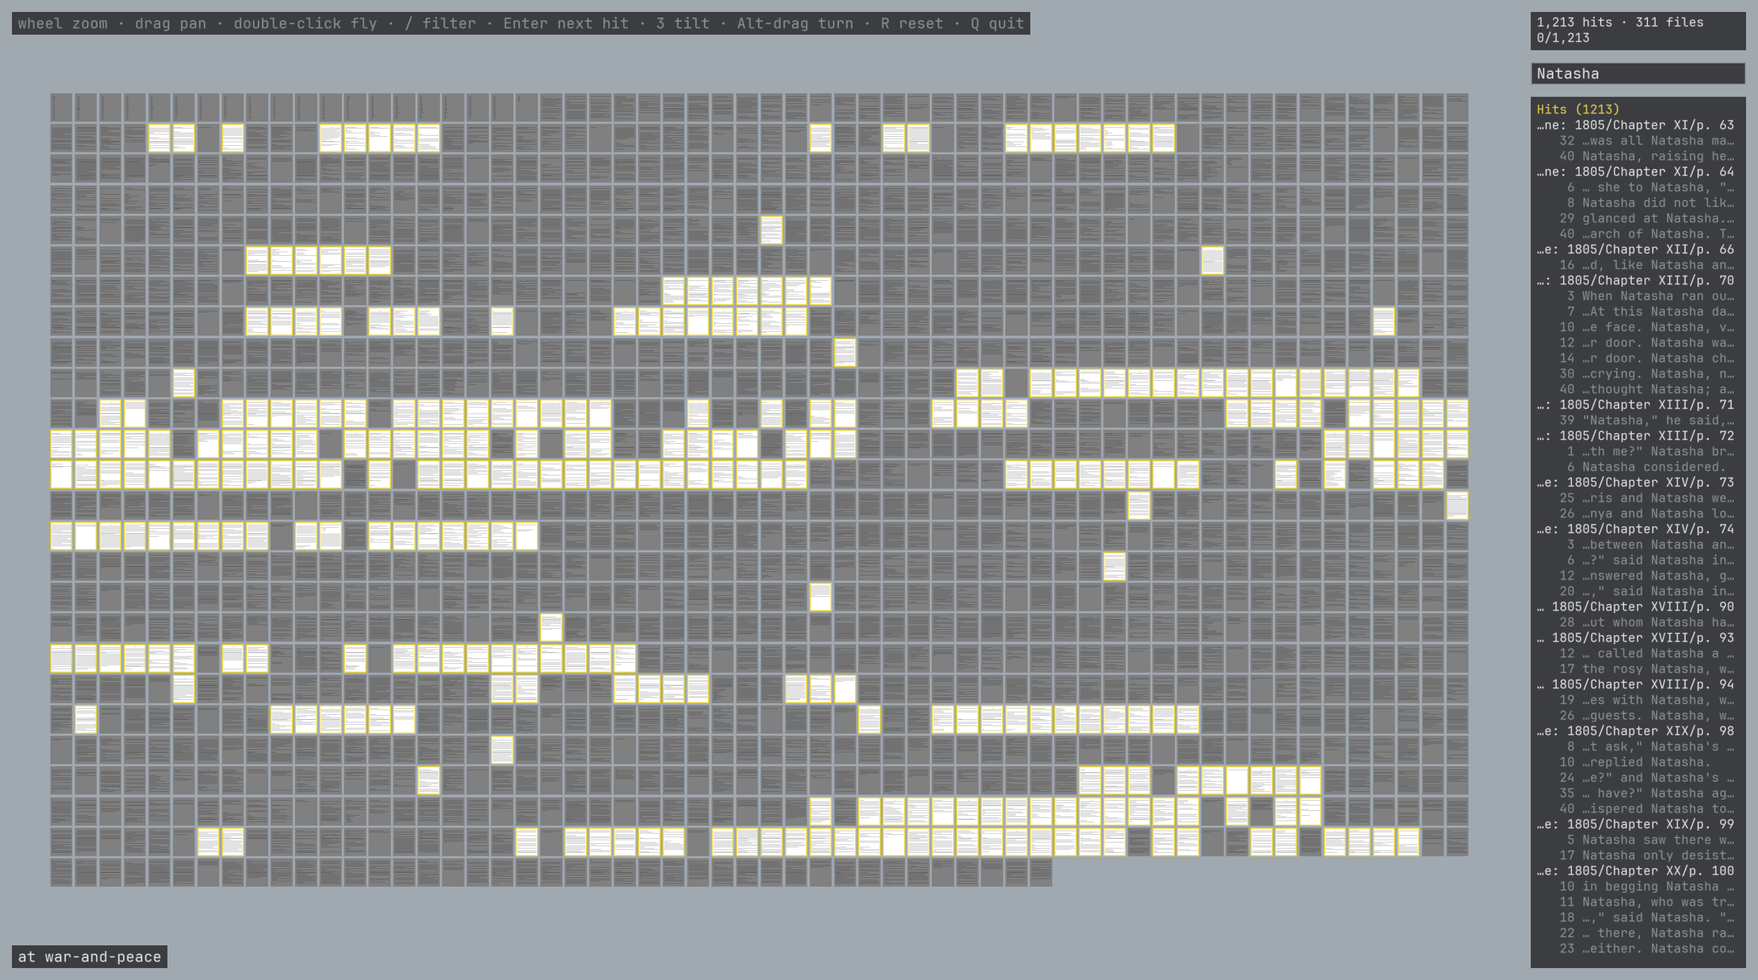
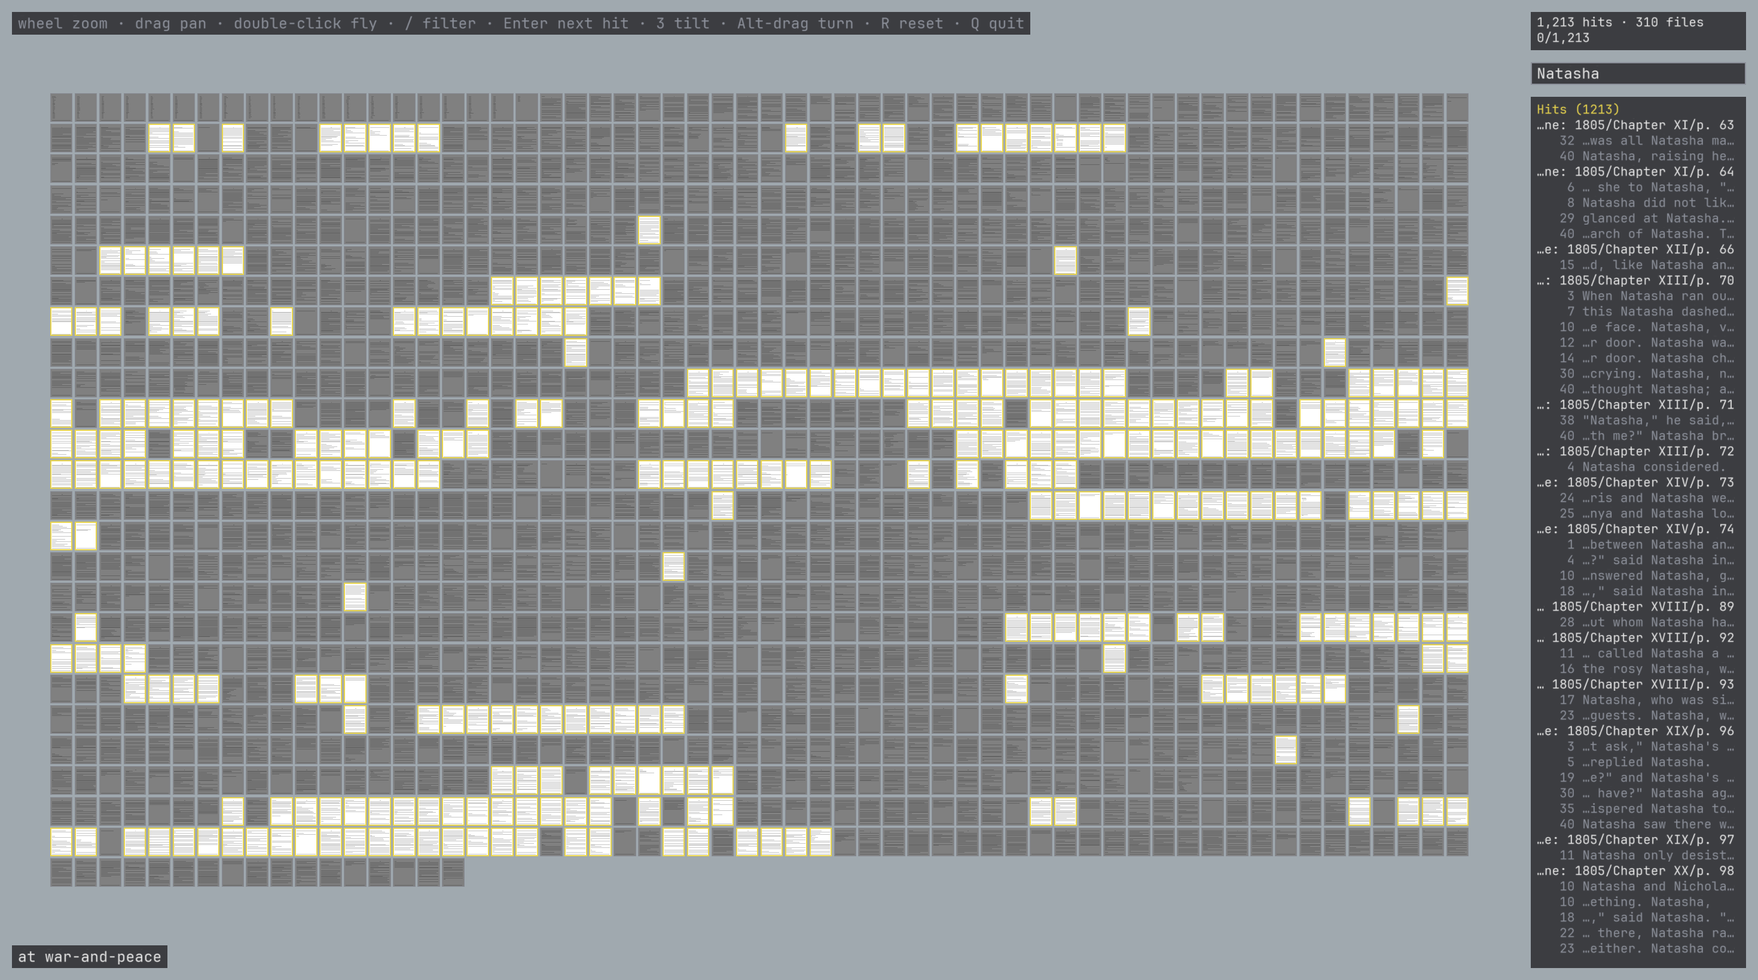
Two blank lines between a page's text and its footer

diff --git a/book_index.py b/book_index.py
@@ -265,10 +265,10 @@ def reflow(lines, measure, width):
 
 def letter_width(page_lines, aspect):
     """The text width in line heights that makes a page of page_lines
-    lines, a blank and a footer, inside PAGE_MARGIN, a page of `aspect`
+    lines, two blanks and a footer, inside PAGE_MARGIN, a page of `aspect`
     (width over height): Letter by default."""
     mx, mt, mb = PAGE_MARGIN
-    rows = page_lines + 2
+    rows = page_lines + 3
     return aspect * (1 - 2 * mx) / (1 - mt - mb) * (rows + 2)
 
 
@@ -296,7 +296,7 @@ def build(parts, page_lines, name, measure=None, width=None, author="", book_tit
     path names its chapter (`Book One: 1805/Chapter III/p. 27`), so the
     layout is a grid of pages per part, as printed. A text without any
     heading is one part named after the corpus, its pages `name/p. N`.
-    Every page is padded to page_lines lines and given a blank line and a
+    Every page is padded to page_lines lines and given two blank lines and a
     running footer, and chapter headings are centred on the page width, as
     a printed page has them."""
     dirs = [{"path": "", "parent": -1, "children": [], "files": [], "top": 0}]
@@ -320,7 +320,7 @@ def build(parts, page_lines, name, measure=None, width=None, author="", book_tit
                 if measure is not None:
                     page = [(" " * measure.spaces((width - measure.width(ln)) / 2) + ln.strip())
                             if CHAPTER_RX.match(ln.rstrip()) else ln for ln in page]
-                    page = page + [""] * (page_lines - len(page)) + ["", footer_line(measure, width, author, str(page_no), book_title)]
+                    page = page + [""] * (page_lines - len(page)) + ["", "", footer_line(measure, width, author, str(page_no), book_title)]
                 results.append(index_page(rel, page, footer=measure is not None))
     return dirs, files, file_dir, results
 
@@ -389,7 +389,7 @@ def main():
     seconds = round(time.time() - t0, 2)
     stats = write_index(args.out, args.name, os.path.abspath(args.text), dirs, files, file_dir,
                         results, skipped, seconds,
-                        extra={"corpus": "book", "page_lines": args.page_lines, "page_rows": args.page_lines + 2,
+                        extra={"corpus": "book", "page_lines": args.page_lines, "page_rows": args.page_lines + 3,
                                "title": book_title, "author": author, "scheme": SCHEME})
     n_chapters = sum(len(c) for _, c in parts)
     print(f"wrote {args.out}/index.npz + index.json: {len(parts)} parts, {n_chapters} chapters, "

diff --git a/docs/DESIGN.md b/docs/DESIGN.md
@@ -133,9 +133,9 @@ The filter (`/` or a click in the box; `Backspace`; `Escape` clears) runs from t
 
 The README's adapter split (a hierarchy, a layout, an aggregate colour per corpus; everything else shared) was tried on Dobbie's own example, the whole of War and Peace, and held: one indexer and one placement function, no new shader, no viewer change but a parser fix.
 
-`book_index.py` reads a Project Gutenberg plain text (`--gutenberg N` fetches `https://www.gutenberg.org/cache/epub/N/pgN.txt` into `data/gutenberg/` once) and writes the same `index.npz` + `index.json` as `atlas_index.py`, through the `write_index` function shared with stage 1. The prose is reflowed first: every paragraph, a run of non-blank lines with a line of 60 characters or more (the contents list, verse and headings keep theirs), is joined and filled word by word to the line width, in the face's advances, that makes a page of `--page-lines` (40) lines plus its blank and footer, inside the margins, a page of `--page-aspect` (Letter); `--no-reflow` keeps Gutenberg's breaks. The hierarchy is parts over chapters over pages: a heading at column 0 such as `BOOK ONE: 1805`, `PART I` or `FIRST EPILOGUE: 1813 - 20` opens a part, `CHAPTER I` a chapter, and every `--page-lines` (40) lines of a chapter are one page, numbered through the book (`Book One: 1805/Chapter I/p. 17`); a page never starts with a blank line, runs of blank lines are squeezed to one, a chapter ends its last page early. The contents listing indents its copies of every heading, which is what keeps it out of the structure. The parts are the directories (18 with the front matter) and the pages the files; chapters are in the page paths only, so the layout is a grid of pages per part, as printed, and the hover label carries the chapter. Gutenberg's header and footer, outside the `*** START` and `*** END` lines, are dropped. A text with no heading at all is one part named after the corpus, its pages `name/p. N`, so any plain text file is a book. Text is kept on Gutenberg's own line breaks (72 columns, 85 at most) and normalised to ASCII: curly quotes straight, the em dash `--`, accents stripped by NFKD decomposition (Natásha to Natasha), the rest `?`; the whole book fits Windows-1252, so one byte per character would hold the accents once the glyph tiers cover more than 32 to 126 (README, open question 2). A `prose` tokenizer spec gives words the ident kind and numbers the number kind, with no string literals (a line of dialogue is not a string) and no items. Every page is padded to its 40 lines and given a blank line and a running footer, author, page number and title spaced across the page width in the face's own advances (the 99.5th percentile of the book's line widths), its characters in the comment kind so the scheme greys them; chapter headings are centred on the same width; the author and title come from Gutenberg's header, its lowercase honorific dropped. The index carries the book's scheme, taken from Dobbie's demo: pages as white quads, text black, on the `#a0a9af` ground his page clears to, the bands in that ground colour so nothing marks a part but the crumb trail; the face of his demo came from the source PDF and is not recorded anywhere reachable, and the book's face is Literata, the OFL book serif, proportional, through the width-based layout and the per-glyph draw described under the stages above. War and Peace: 18 parts, 366 chapters, 1,401 pages, 63,191 lines, 3.14 M characters, 2.63 M glyphs, 0.46 s; Dobbie's reflowed pages numbered 1,273.
+`book_index.py` reads a Project Gutenberg plain text (`--gutenberg N` fetches `https://www.gutenberg.org/cache/epub/N/pgN.txt` into `data/gutenberg/` once) and writes the same `index.npz` + `index.json` as `atlas_index.py`, through the `write_index` function shared with stage 1. The prose is reflowed first: every paragraph, a run of non-blank lines with a line of 60 characters or more (the contents list, verse and headings keep theirs), is joined and filled word by word to the line width, in the face's advances, that makes a page of `--page-lines` (40) lines plus its two blanks and footer, inside the margins, a page of `--page-aspect` (Letter); `--no-reflow` keeps Gutenberg's breaks. The hierarchy is parts over chapters over pages: a heading at column 0 such as `BOOK ONE: 1805`, `PART I` or `FIRST EPILOGUE: 1813 - 20` opens a part, `CHAPTER I` a chapter, and every `--page-lines` (40) lines of a chapter are one page, numbered through the book (`Book One: 1805/Chapter I/p. 17`); a page never starts with a blank line, runs of blank lines are squeezed to one, a chapter ends its last page early. The contents listing indents its copies of every heading, which is what keeps it out of the structure. The parts are the directories (18 with the front matter) and the pages the files; chapters are in the page paths only, so the layout is a grid of pages per part, as printed, and the hover label carries the chapter. Gutenberg's header and footer, outside the `*** START` and `*** END` lines, are dropped. A text with no heading at all is one part named after the corpus, its pages `name/p. N`, so any plain text file is a book. Text is kept on Gutenberg's own line breaks (72 columns, 85 at most) and normalised to ASCII: curly quotes straight, the em dash `--`, accents stripped by NFKD decomposition (Natásha to Natasha), the rest `?`; the whole book fits Windows-1252, so one byte per character would hold the accents once the glyph tiers cover more than 32 to 126 (README, open question 2). A `prose` tokenizer spec gives words the ident kind and numbers the number kind, with no string literals (a line of dialogue is not a string) and no items. Every page is padded to its 40 lines and given two blank lines and a running footer, author, page number and title spaced across the page width in the face's own advances (the 99.5th percentile of the book's line widths), its characters in the comment kind so the scheme greys them; chapter headings are centred on the same width; the author and title come from Gutenberg's header, its lowercase honorific dropped. The index carries the book's scheme, taken from Dobbie's demo: pages as white quads, text black, on the `#a0a9af` ground his page clears to, the bands in that ground colour so nothing marks a part but the crumb trail; the face of his demo came from the source PDF and is not recorded anywhere reachable, and the book's face is Literata, the OFL book serif, proportional, through the width-based layout and the per-glyph draw described under the stages above. War and Peace: 18 parts, 366 chapters, 1,401 pages, 63,191 lines, 3.14 M characters, 2.63 M glyphs, 0.46 s; Dobbie's reflowed pages numbered 1,273.
 
-`atlas_layout.py` reads `"corpus": "book"` and `"page_lines"` from the index and skips the treemap. The default, `book_flow`, is one grid of every page in reading order, as Dobbie's demo: the layout's tree is the root alone, the parts draw nothing, every page sits in a gutter of 8 percent of the cell's width, and its text block is the page inset by margins of 7.5 percent of its width, 9 percent of its height above and 3 below (`file_text` in the layout, the file itself for code; the viewer's hover reads from it), 58 pages across for War and Peace. Every page is `page_rows` rows, the 40 text lines, a blank and the footer, so the footer sits in the bottom margin. `--book-layout parts` keeps the earlier `book_layout`: every part a full-width band of whole page rows stacked in reading order, every page one cell of one size, rows filled left to right, a part's last row short. The column count is the one that brings a cell closest to the page aspect (the book's 99.5th-percentile line width times the character aspect, over the page's lines plus two) from the wide side, so a page's single column always holds its lines: 65 across for War and Peace, 16 wrapped rows in the whole book (the few lines past 73 columns). `layout_files` takes a `page` argument that pitches every file as a full page aimed at the book's line width, so a short last page keeps its chapter's text size and no page splits into columns. A book's weight is lines, so every page is one cell whatever its length, and its layout declares itself flat: in 3D nothing rises, the tilted view is the sheet in perspective. The code rule, a file's height as the square root of its weight and a terrace per directory level, made the book a city of near-equal blocks under tokens and a plateau with dips at chapter ends under lines, and equal heights still left the Books as terraces; a book is one sheet. The strip treemap (Bederson et al.) was tried first with chapters as directories and rejected: pages came out at every size and shape, which is the code map's look, not a book's. The empty end of each band is the price of parts as rectangles; letting a part start mid-row would make it a non-rectangle, which nothing in the viewer draws.
+`atlas_layout.py` reads `"corpus": "book"` and `"page_lines"` from the index and skips the treemap. The default, `book_flow`, is one grid of every page in reading order, as Dobbie's demo: the layout's tree is the root alone, the parts draw nothing, every page sits in a gutter of 8 percent of the cell's width, and its text block is the page inset by margins of 7.5 percent of its width, 9 percent of its height above and 3 below (`file_text` in the layout, the file itself for code; the viewer's hover reads from it), 58 pages across for War and Peace. Every page is `page_rows` rows, the 40 text lines, two blanks and the footer, so the footer sits in the bottom margin. `--book-layout parts` keeps the earlier `book_layout`: every part a full-width band of whole page rows stacked in reading order, every page one cell of one size, rows filled left to right, a part's last row short. The column count is the one that brings a cell closest to the page aspect (the book's 99.5th-percentile line width times the character aspect, over the page's lines plus two) from the wide side, so a page's single column always holds its lines: 65 across for War and Peace, 16 wrapped rows in the whole book (the few lines past 73 columns). `layout_files` takes a `page` argument that pitches every file as a full page aimed at the book's line width, so a short last page keeps its chapter's text size and no page splits into columns. A book's weight is lines, so every page is one cell whatever its length, and its layout declares itself flat: in 3D nothing rises, the tilted view is the sheet in perspective. The code rule, a file's height as the square root of its weight and a terrace per directory level, made the book a city of near-equal blocks under tokens and a plateau with dips at chapter ends under lines, and equal heights still left the Books as terraces; a book is one sheet. The strip treemap (Bederson et al.) was tried first with chapters as directories and rejected: pages came out at every size and shape, which is the code map's look, not a book's. The empty end of each band is the price of parts as rectangles; letting a part start mid-row would make it a non-rectangle, which nothing in the viewer draws.
 
 The viewer needed one fix: `--goto` split its argument at the first colon, and a book's paths hold colons (`Book One: 1805/...`); it now splits at the last colon and only when a line number follows. The frame loop measured 2.4 ms mean over the scripted zoom (9.1 MB on the GPU). Screenshots and their commands are in `docs/shots/README.md`, the hero (3D at 3 px per line about page 481) is the README's second image.
 

diff --git a/README.md b/README.md
@@ -8,7 +8,7 @@ big-text is the text-scale sibling of [big-picture](https://github.com/erik-lars
 
 ![War and Peace flyover: one flat sheet of pages, the near ones as text, the far rows as line bars, the Books as coloured bands](docs/shots/war-and-peace/hero.png)
 
-*The same viewer on War and Peace, Dobbie's example, in his colours and a book face: white pages on the blue-grey ground of his demo, Literata set by its own advances, 1,491 pages and 2.67 million glyphs as one grid in reading order, tilted, the near pages at the text LOD and the far rows at bars in the same frame.*
+*The same viewer on War and Peace, Dobbie's example, in his colours and a book face: white pages on the blue-grey ground of his demo, Literata set by its own advances, 1,467 pages and 2.67 million glyphs as one grid in reading order, tilted, the near pages at the text LOD and the far rows at bars in the same frame.*
 
 It shows three kinds of content, in this order of priority: text, images, 2D vector work. Each has an open-source lineage, and the levels of detail that tie them together have a fourth:
 
@@ -121,9 +121,9 @@ Dobbie's example, War and Peace, needs nothing beyond the install: no submodule,
 ./atlas_viewer.py data/war-and-peace_atlas
 ```
 
-1. `book_index.py` fetches Project Gutenberg ebook 2600 (3.4 MB) into `data/gutenberg/pg2600.txt` on the first run and reads it from there after, drops Gutenberg's header and footer, and splits the text on its headings: reflows the prose to Letter pages, every paragraph re-broken word by word to the line width that makes a page of 40 lines Letter-shaped inside its margins, measured in the book's own face (the contents list, verse and headings keep their lines), and splits it on its headings: `BOOK ONE: 1805` and the two epilogues open a part, `CHAPTER I` a chapter, every 40 lines of a chapter are a page, padded to 40, with a running footer under a blank line, author, page number and title spaced across the page in the face's own widths, and chapter headings centred the same way. It writes `data/war-and-peace_atlas/index.npz` and `index.json`, the same index a source tree gets, with parts as directories and pages as files named `Book One: 1805/Chapter I/p. 17`, and the book's scheme, Dobbie's colours, white pages, black text, grey bars, his demo's blue-grey ground, and its face, Literata; and prints the counts: 18 parts, 366 chapters, 1,491 pages, 2.67 million glyphs, about a second.
+1. `book_index.py` fetches Project Gutenberg ebook 2600 (3.4 MB) into `data/gutenberg/pg2600.txt` on the first run and reads it from there after, drops Gutenberg's header and footer, and splits the text on its headings: reflows the prose to Letter pages, every paragraph re-broken word by word to the line width that makes a page of 40 lines Letter-shaped inside its margins, measured in the book's own face (the contents list, verse and headings keep their lines), and splits it on its headings: `BOOK ONE: 1805` and the two epilogues open a part, `CHAPTER I` a chapter, every 40 lines of a chapter are a page, padded to 40, with a running footer under two blank lines, author, page number and title spaced across the page in the face's own widths, and chapter headings centred the same way. It writes `data/war-and-peace_atlas/index.npz` and `index.json`, the same index a source tree gets, with parts as directories and pages as files named `Book One: 1805/Chapter I/p. 17`, and the book's scheme, Dobbie's colours, white pages, black text, grey bars, his demo's blue-grey ground, and its face, Literata; and prints the counts: 18 parts, 366 chapters, 1,467 pages, 2.67 million glyphs, about a second.
 2. `atlas_layout.py` sees `"corpus": "book"` in the index and lays the pages out in reading order instead of a treemap: one grid, as Dobbie's demo, every page one cell of one size in a gutter of 8 percent of its width, its text block inset by margins of 7.5 percent of the page's width, 9 percent of its height above and 3 below, the footer sitting in the bottom one, 58 pages across, the parts drawing nothing, and writes `layout.npz`, with lines as the book's one metric; `--book-layout parts` gives every part its own band of page rows instead. In 3D a book is one flat sheet, nothing extruded, the tilt just a way of looking at it. Add `--preview docs/shots/war-and-peace_layout.png` to render the result with Pillow without opening a window.
-3. `atlas_viewer.py` opens the book fitted to the window, its text in Literata at every size, glyphs placed by their own advances, and the hints and panel in the monospace face. Everything in Controls works: `/` filters (`Natasha` finds 1,213 mentions on 311 pages), Enter flies to the next hit, `3` tilts the sheet (a book has no heights in 3D), hover names the part, chapter and page under the cursor. There is no tint, since a book has no commits.
+3. `atlas_viewer.py` opens the book fitted to the window, its text in Literata at every size, glyphs placed by their own advances, and the hints and panel in the monospace face. Everything in Controls works: `/` filters (`Natasha` finds 1,213 mentions on 310 pages), Enter flies to the next hit, `3` tilts the sheet (a book has no heights in 3D), hover names the part, chapter and page under the cursor. There is no tint, since a book has no commits.
 
 The README's second image is the viewer scripted from the shell, and the opening pages are one flag away:
 
@@ -191,7 +191,7 @@ The tint over the fitted map: lines added and removed over the whole history, lo
 
 ### A book
 
-The same images for War and Peace, in `docs/shots/war-and-peace/`. The map fitted: one grid of 1,491 pages in reading order, 58 across, each page a white cell of one size in a grey gutter, the text the pale grey of its averaged ink.
+The same images for War and Peace, in `docs/shots/war-and-peace/`. The map fitted: one grid of 1,467 pages in reading order, 58 across, each page a white cell of one size in a grey gutter, the text the pale grey of its averaged ink.
 
 ![the book fitted](docs/shots/war-and-peace/overview.png)
 
@@ -199,7 +199,7 @@ The book opens: the contents on the front-matter pages, then `Book One: 1805` an
 
 ![the opening pages](docs/shots/war-and-peace/opening.png)
 
-The filter `Natasha`: 1,213 mentions on 311 pages, every page with one outlined in yellow, and the fly-to landing on the first, the hit filled yellow at text zoom.
+The filter `Natasha`: 1,213 mentions on 310 pages, every page with one outlined in yellow, and the fly-to landing on the first, the hit filled yellow at text zoom.
 
 ![Natasha filtered](docs/shots/war-and-peace/filter.png)
 ![the first mention](docs/shots/war-and-peace/result.png)

diff --git a/docs/shots/README.md b/docs/shots/README.md
@@ -51,7 +51,7 @@ The line numbers in the `--goto` and `--hover` commands are the ones that held w
 
 - `big-text_layout.png`: the layout stage's own render of big-text (29 files, about 7,200 lines): the `docs/`, `tests/` and `shaders/` bands, files as 1 px outlines wrapped into columns, one grey bar per line from indent to length.
 - `emscripten_layout.png`: the same for the whole emscripten tree (11,495 files, 2.80 million lines, 698 directories): nested directory bands in the top-level hue, `test/` and `system/` the largest, big files wrapped into up to 64 columns, tiny files as slivers.
-- `war-and-peace_layout.png`: the book: one grid of 1,491 pages in reading order, 58 across, in gutters, one grey bar per line, a chapter's last page short.
+- `war-and-peace_layout.png`: the book: one grid of 1,467 pages in reading order, 58 across, in gutters, one grey bar per line, a chapter's last page short.
 
 ## big-text (its own source: 29 files, about 7,200 lines)
 
@@ -67,9 +67,9 @@ The default example, so the counts move whenever this documentation is edited. T
 
 The whole tree as git tracks it, test suites and system libraries included, at the commit cloned. The standard set with `--filter EM_JS` (126 hits in 53 files, grouped by file), plus `3d_text.png` (`--proj 3d --heights --hover emcc.py:199:5`, text zoom on a roof in perspective with the hover label `emcc.py:199 def main`) and `churn.png` (the tint over 30,274 commits: every file's fill ember by the log of its lines added and removed, the vendored test suites under `test/third_party` the brightest, having landed whole).
 
-## War and Peace (Project Gutenberg 2600: 18 parts, 366 chapters, 1,491 Letter pages of 40 reflowed lines, 62,622 lines, 2.67 million glyphs)
+## War and Peace (Project Gutenberg 2600: 18 parts, 366 chapters, 1,467 Letter pages of 40 reflowed lines, 63,081 lines, 2.67 million glyphs)
 
-In the book's own scheme, Dobbie's: white pages and black text on his demo's blue-grey ground, the text in Literata, justified, with a book's leading, every glyph placed by its own advance, the pages fading to pale grey as the text gives way to blocks and bars, every page with its running footer. The standard set with `--filter Natasha` (1,213 hits on 311 pages), a book having no tint, plus:
+In the book's own scheme, Dobbie's: white pages and black text on his demo's blue-grey ground, the text in Literata, justified, with a book's leading, every glyph placed by its own advance, the pages fading to pale grey as the text gives way to blocks and bars, every page with its running footer. The standard set with `--filter Natasha` (1,213 hits on 310 pages), a book having no tint, plus:
 
 - `war-and-peace/overview.png`: the map fitted: one grid of pages in reading order, the front matter's contents pages first, each page a cell at the line-bars LOD; no part is drawn, the crumb trail names the one under the centre.
 - `war-and-peace/hover.png`: the text view hovered at the centre: the label `Book Eight: 1811 - 12/Chapter IX/p. 657` (part, chapter, page; a book has no items).
